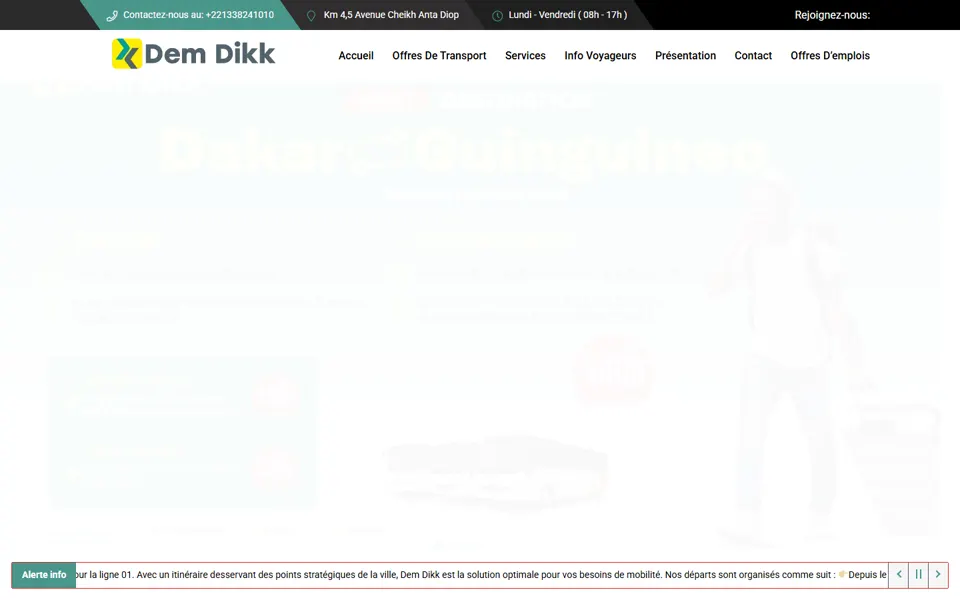
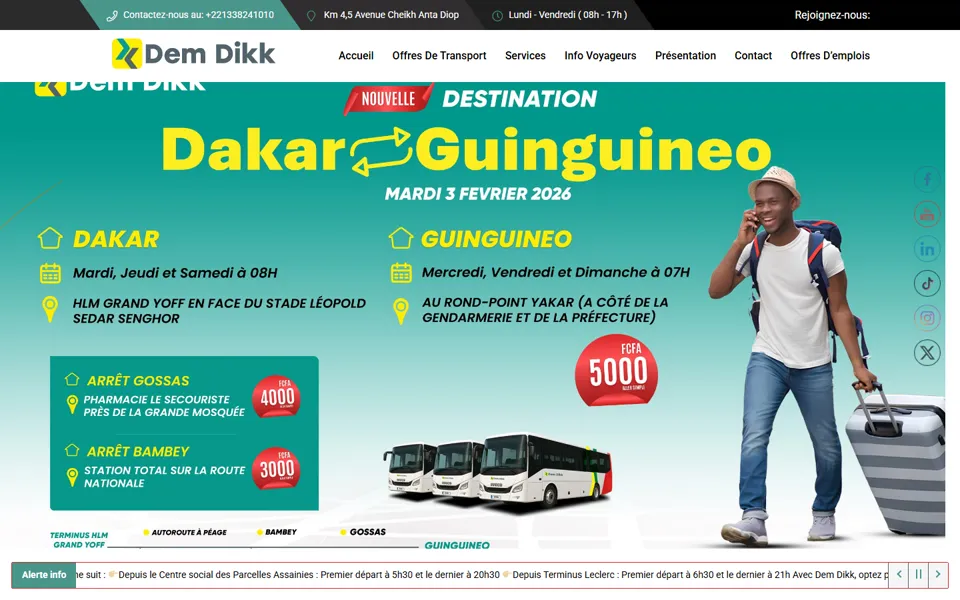
Dem Dikk : capture « avant » lisible et versions des fichiers CSS/JS
La capture du site actuel était prise pendant le fondu du diaporama (image
presque blanche) ; nouvelle capture nette. Ajout de ?v= aux liens CSS/JS
pour que les navigateurs chargent les nouveaux styles au lieu du cache.

diff --git a/index.html b/index.html
@@ -12,7 +12,7 @@
   <link rel="preconnect" href="https://fonts.googleapis.com">
   <link rel="preconnect" href="https://fonts.gstatic.com" crossorigin>
   <link href="https://fonts.googleapis.com/css2?family=Inter:wght@400;500;600&family=Sora:wght@500;600;700;800&display=swap" rel="stylesheet">
-  <link rel="stylesheet" href="assets/css/style.css">
+  <link rel="stylesheet" href="assets/css/style.css?v=20261127">
 </head>
 <body>
 <a class="skip" href="#contenu">Aller au contenu</a>
@@ -290,8 +290,8 @@
   <svg viewBox="0 0 24 24"><path d="M17.47 14.38c-.3-.15-1.76-.87-2.03-.97-.27-.1-.47-.15-.67.15-.2.3-.77.97-.94 1.17-.17.2-.35.22-.65.07-.3-.15-1.26-.46-2.4-1.48-.89-.79-1.49-1.77-1.66-2.07-.17-.3-.02-.46.13-.61.13-.13.3-.35.45-.52.15-.17.2-.3.3-.5.1-.2.05-.37-.02-.52-.08-.15-.67-1.61-.92-2.2-.24-.58-.49-.5-.67-.51h-.57c-.2 0-.52.07-.79.37-.27.3-1.04 1.02-1.04 2.48 0 1.46 1.06 2.88 1.21 3.08.15.2 2.1 3.2 5.08 4.48.71.31 1.26.49 1.69.63.71.23 1.36.2 1.87.12.57-.08 1.76-.72 2.01-1.42.25-.7.25-1.29.17-1.42-.07-.12-.27-.2-.57-.35zM12.04 21.5h-.01a9.43 9.43 0 0 1-4.8-1.32l-.35-.2-3.57.94.95-3.48-.22-.36a9.4 9.4 0 0 1-1.44-5.02c0-5.2 4.24-9.44 9.45-9.44a9.4 9.4 0 0 1 6.68 2.77 9.38 9.38 0 0 1 2.76 6.68c0 5.21-4.24 9.43-9.45 9.43zm8.04-17.47A11.29 11.29 0 0 0 12.04.7C5.77.7.66 5.8.66 12.07c0 2 .52 3.96 1.52 5.68L.57 23.65l6.04-1.58a11.33 11.33 0 0 0 5.43 1.38h.01c6.27 0 11.38-5.1 11.38-11.37 0-3.04-1.18-5.9-3.35-8.05z"/></svg>
 </a>
 
-<script src="assets/js/main.js" defer></script>
-<script src="assets/js/animations.js" defer></script>
-<script src="assets/js/scrolly.js" defer></script>
+<script src="assets/js/main.js?v=20261127" defer></script>
+<script src="assets/js/animations.js?v=20261127" defer></script>
+<script src="assets/js/scrolly.js?v=20261127" defer></script>
 </body>
 </html>

diff --git a/a-propos.html b/a-propos.html
@@ -12,7 +12,7 @@
   <link rel="preconnect" href="https://fonts.googleapis.com">
   <link rel="preconnect" href="https://fonts.gstatic.com" crossorigin>
   <link href="https://fonts.googleapis.com/css2?family=Inter:wght@400;500;600&family=Sora:wght@500;600;700;800&display=swap" rel="stylesheet">
-  <link rel="stylesheet" href="assets/css/style.css">
+  <link rel="stylesheet" href="assets/css/style.css?v=20261127">
 </head>
 <body>
 <a class="skip" href="#contenu">Aller au contenu</a>
@@ -131,7 +131,7 @@
   <svg viewBox="0 0 24 24"><path d="M17.47 14.38c-.3-.15-1.76-.87-2.03-.97-.27-.1-.47-.15-.67.15-.2.3-.77.97-.94 1.17-.17.2-.35.22-.65.07-.3-.15-1.26-.46-2.4-1.48-.89-.79-1.49-1.77-1.66-2.07-.17-.3-.02-.46.13-.61.13-.13.3-.35.45-.52.15-.17.2-.3.3-.5.1-.2.05-.37-.02-.52-.08-.15-.67-1.61-.92-2.2-.24-.58-.49-.5-.67-.51h-.57c-.2 0-.52.07-.79.37-.27.3-1.04 1.02-1.04 2.48 0 1.46 1.06 2.88 1.21 3.08.15.2 2.1 3.2 5.08 4.48.71.31 1.26.49 1.69.63.71.23 1.36.2 1.87.12.57-.08 1.76-.72 2.01-1.42.25-.7.25-1.29.17-1.42-.07-.12-.27-.2-.57-.35zM12.04 21.5h-.01a9.43 9.43 0 0 1-4.8-1.32l-.35-.2-3.57.94.95-3.48-.22-.36a9.4 9.4 0 0 1-1.44-5.02c0-5.2 4.24-9.44 9.45-9.44a9.4 9.4 0 0 1 6.68 2.77 9.38 9.38 0 0 1 2.76 6.68c0 5.21-4.24 9.43-9.45 9.43zm8.04-17.47A11.29 11.29 0 0 0 12.04.7C5.77.7.66 5.8.66 12.07c0 2 .52 3.96 1.52 5.68L.57 23.65l6.04-1.58a11.33 11.33 0 0 0 5.43 1.38h.01c6.27 0 11.38-5.1 11.38-11.37 0-3.04-1.18-5.9-3.35-8.05z"/></svg>
 </a>
 
-<script src="assets/js/main.js" defer></script>
-<script src="assets/js/animations.js" defer></script>
+<script src="assets/js/main.js?v=20261127" defer></script>
+<script src="assets/js/animations.js?v=20261127" defer></script>
 </body>
 </html>

diff --git a/automatisation.html b/automatisation.html
@@ -12,7 +12,7 @@
   <link rel="preconnect" href="https://fonts.googleapis.com">
   <link rel="preconnect" href="https://fonts.gstatic.com" crossorigin>
   <link href="https://fonts.googleapis.com/css2?family=Inter:wght@400;500;600&family=Sora:wght@500;600;700;800&display=swap" rel="stylesheet">
-  <link rel="stylesheet" href="assets/css/style.css">
+  <link rel="stylesheet" href="assets/css/style.css?v=20261127">
 </head>
 <body>
 <a class="skip" href="#contenu">Aller au contenu</a>
@@ -149,7 +149,7 @@
   <svg viewBox="0 0 24 24"><path d="M17.47 14.38c-.3-.15-1.76-.87-2.03-.97-.27-.1-.47-.15-.67.15-.2.3-.77.97-.94 1.17-.17.2-.35.22-.65.07-.3-.15-1.26-.46-2.4-1.48-.89-.79-1.49-1.77-1.66-2.07-.17-.3-.02-.46.13-.61.13-.13.3-.35.45-.52.15-.17.2-.3.3-.5.1-.2.05-.37-.02-.52-.08-.15-.67-1.61-.92-2.2-.24-.58-.49-.5-.67-.51h-.57c-.2 0-.52.07-.79.37-.27.3-1.04 1.02-1.04 2.48 0 1.46 1.06 2.88 1.21 3.08.15.2 2.1 3.2 5.08 4.48.71.31 1.26.49 1.69.63.71.23 1.36.2 1.87.12.57-.08 1.76-.72 2.01-1.42.25-.7.25-1.29.17-1.42-.07-.12-.27-.2-.57-.35zM12.04 21.5h-.01a9.43 9.43 0 0 1-4.8-1.32l-.35-.2-3.57.94.95-3.48-.22-.36a9.4 9.4 0 0 1-1.44-5.02c0-5.2 4.24-9.44 9.45-9.44a9.4 9.4 0 0 1 6.68 2.77 9.38 9.38 0 0 1 2.76 6.68c0 5.21-4.24 9.43-9.45 9.43zm8.04-17.47A11.29 11.29 0 0 0 12.04.7C5.77.7.66 5.8.66 12.07c0 2 .52 3.96 1.52 5.68L.57 23.65l6.04-1.58a11.33 11.33 0 0 0 5.43 1.38h.01c6.27 0 11.38-5.1 11.38-11.37 0-3.04-1.18-5.9-3.35-8.05z"/></svg>
 </a>
 
-<script src="assets/js/main.js" defer></script>
-<script src="assets/js/animations.js" defer></script>
+<script src="assets/js/main.js?v=20261127" defer></script>
+<script src="assets/js/animations.js?v=20261127" defer></script>
 </body>
 </html>

diff --git a/contact.html b/contact.html
@@ -12,7 +12,7 @@
   <link rel="preconnect" href="https://fonts.googleapis.com">
   <link rel="preconnect" href="https://fonts.gstatic.com" crossorigin>
   <link href="https://fonts.googleapis.com/css2?family=Inter:wght@400;500;600&family=Sora:wght@500;600;700;800&display=swap" rel="stylesheet">
-  <link rel="stylesheet" href="assets/css/style.css">
+  <link rel="stylesheet" href="assets/css/style.css?v=20261127">
 </head>
 <body>
 <a class="skip" href="#contenu">Aller au contenu</a>
@@ -131,7 +131,7 @@
   <svg viewBox="0 0 24 24"><path d="M17.47 14.38c-.3-.15-1.76-.87-2.03-.97-.27-.1-.47-.15-.67.15-.2.3-.77.97-.94 1.17-.17.2-.35.22-.65.07-.3-.15-1.26-.46-2.4-1.48-.89-.79-1.49-1.77-1.66-2.07-.17-.3-.02-.46.13-.61.13-.13.3-.35.45-.52.15-.17.2-.3.3-.5.1-.2.05-.37-.02-.52-.08-.15-.67-1.61-.92-2.2-.24-.58-.49-.5-.67-.51h-.57c-.2 0-.52.07-.79.37-.27.3-1.04 1.02-1.04 2.48 0 1.46 1.06 2.88 1.21 3.08.15.2 2.1 3.2 5.08 4.48.71.31 1.26.49 1.69.63.71.23 1.36.2 1.87.12.57-.08 1.76-.72 2.01-1.42.25-.7.25-1.29.17-1.42-.07-.12-.27-.2-.57-.35zM12.04 21.5h-.01a9.43 9.43 0 0 1-4.8-1.32l-.35-.2-3.57.94.95-3.48-.22-.36a9.4 9.4 0 0 1-1.44-5.02c0-5.2 4.24-9.44 9.45-9.44a9.4 9.4 0 0 1 6.68 2.77 9.38 9.38 0 0 1 2.76 6.68c0 5.21-4.24 9.43-9.45 9.43zm8.04-17.47A11.29 11.29 0 0 0 12.04.7C5.77.7.66 5.8.66 12.07c0 2 .52 3.96 1.52 5.68L.57 23.65l6.04-1.58a11.33 11.33 0 0 0 5.43 1.38h.01c6.27 0 11.38-5.1 11.38-11.37 0-3.04-1.18-5.9-3.35-8.05z"/></svg>
 </a>
 
-<script src="assets/js/main.js" defer></script>
-<script src="assets/js/animations.js" defer></script>
+<script src="assets/js/main.js?v=20261127" defer></script>
+<script src="assets/js/animations.js?v=20261127" defer></script>
 </body>
 </html>

diff --git a/creation-visuelle.html b/creation-visuelle.html
@@ -12,7 +12,7 @@
   <link rel="preconnect" href="https://fonts.googleapis.com">
   <link rel="preconnect" href="https://fonts.gstatic.com" crossorigin>
   <link href="https://fonts.googleapis.com/css2?family=Inter:wght@400;500;600&family=Sora:wght@500;600;700;800&display=swap" rel="stylesheet">
-  <link rel="stylesheet" href="assets/css/style.css">
+  <link rel="stylesheet" href="assets/css/style.css?v=20261127">
 </head>
 <body>
 <a class="skip" href="#contenu">Aller au contenu</a>
@@ -147,7 +147,7 @@
   <svg viewBox="0 0 24 24"><path d="M17.47 14.38c-.3-.15-1.76-.87-2.03-.97-.27-.1-.47-.15-.67.15-.2.3-.77.97-.94 1.17-.17.2-.35.22-.65.07-.3-.15-1.26-.46-2.4-1.48-.89-.79-1.49-1.77-1.66-2.07-.17-.3-.02-.46.13-.61.13-.13.3-.35.45-.52.15-.17.2-.3.3-.5.1-.2.05-.37-.02-.52-.08-.15-.67-1.61-.92-2.2-.24-.58-.49-.5-.67-.51h-.57c-.2 0-.52.07-.79.37-.27.3-1.04 1.02-1.04 2.48 0 1.46 1.06 2.88 1.21 3.08.15.2 2.1 3.2 5.08 4.48.71.31 1.26.49 1.69.63.71.23 1.36.2 1.87.12.57-.08 1.76-.72 2.01-1.42.25-.7.25-1.29.17-1.42-.07-.12-.27-.2-.57-.35zM12.04 21.5h-.01a9.43 9.43 0 0 1-4.8-1.32l-.35-.2-3.57.94.95-3.48-.22-.36a9.4 9.4 0 0 1-1.44-5.02c0-5.2 4.24-9.44 9.45-9.44a9.4 9.4 0 0 1 6.68 2.77 9.38 9.38 0 0 1 2.76 6.68c0 5.21-4.24 9.43-9.45 9.43zm8.04-17.47A11.29 11.29 0 0 0 12.04.7C5.77.7.66 5.8.66 12.07c0 2 .52 3.96 1.52 5.68L.57 23.65l6.04-1.58a11.33 11.33 0 0 0 5.43 1.38h.01c6.27 0 11.38-5.1 11.38-11.37 0-3.04-1.18-5.9-3.35-8.05z"/></svg>
 </a>
 
-<script src="assets/js/main.js" defer></script>
-<script src="assets/js/animations.js" defer></script>
+<script src="assets/js/main.js?v=20261127" defer></script>
+<script src="assets/js/animations.js?v=20261127" defer></script>
 </body>
 </html>

diff --git a/logiciels.html b/logiciels.html
@@ -12,7 +12,7 @@
   <link rel="preconnect" href="https://fonts.googleapis.com">
   <link rel="preconnect" href="https://fonts.gstatic.com" crossorigin>
   <link href="https://fonts.googleapis.com/css2?family=Inter:wght@400;500;600&family=Sora:wght@500;600;700;800&display=swap" rel="stylesheet">
-  <link rel="stylesheet" href="assets/css/style.css">
+  <link rel="stylesheet" href="assets/css/style.css?v=20261127">
 </head>
 <body>
 <a class="skip" href="#contenu">Aller au contenu</a>
@@ -151,7 +151,7 @@
   <svg viewBox="0 0 24 24"><path d="M17.47 14.38c-.3-.15-1.76-.87-2.03-.97-.27-.1-.47-.15-.67.15-.2.3-.77.97-.94 1.17-.17.2-.35.22-.65.07-.3-.15-1.26-.46-2.4-1.48-.89-.79-1.49-1.77-1.66-2.07-.17-.3-.02-.46.13-.61.13-.13.3-.35.45-.52.15-.17.2-.3.3-.5.1-.2.05-.37-.02-.52-.08-.15-.67-1.61-.92-2.2-.24-.58-.49-.5-.67-.51h-.57c-.2 0-.52.07-.79.37-.27.3-1.04 1.02-1.04 2.48 0 1.46 1.06 2.88 1.21 3.08.15.2 2.1 3.2 5.08 4.48.71.31 1.26.49 1.69.63.71.23 1.36.2 1.87.12.57-.08 1.76-.72 2.01-1.42.25-.7.25-1.29.17-1.42-.07-.12-.27-.2-.57-.35zM12.04 21.5h-.01a9.43 9.43 0 0 1-4.8-1.32l-.35-.2-3.57.94.95-3.48-.22-.36a9.4 9.4 0 0 1-1.44-5.02c0-5.2 4.24-9.44 9.45-9.44a9.4 9.4 0 0 1 6.68 2.77 9.38 9.38 0 0 1 2.76 6.68c0 5.21-4.24 9.43-9.45 9.43zm8.04-17.47A11.29 11.29 0 0 0 12.04.7C5.77.7.66 5.8.66 12.07c0 2 .52 3.96 1.52 5.68L.57 23.65l6.04-1.58a11.33 11.33 0 0 0 5.43 1.38h.01c6.27 0 11.38-5.1 11.38-11.37 0-3.04-1.18-5.9-3.35-8.05z"/></svg>
 </a>
 
-<script src="assets/js/main.js" defer></script>
-<script src="assets/js/animations.js" defer></script>
+<script src="assets/js/main.js?v=20261127" defer></script>
+<script src="assets/js/animations.js?v=20261127" defer></script>
 </body>
 </html>

diff --git a/realisations.html b/realisations.html
@@ -12,7 +12,7 @@
   <link rel="preconnect" href="https://fonts.googleapis.com">
   <link rel="preconnect" href="https://fonts.gstatic.com" crossorigin>
   <link href="https://fonts.googleapis.com/css2?family=Inter:wght@400;500;600&family=Sora:wght@500;600;700;800&display=swap" rel="stylesheet">
-  <link rel="stylesheet" href="assets/css/style.css">
+  <link rel="stylesheet" href="assets/css/style.css?v=20261127">
 </head>
 <body>
 <a class="skip" href="#contenu">Aller au contenu</a>
@@ -195,7 +195,7 @@
   <svg viewBox="0 0 24 24"><path d="M17.47 14.38c-.3-.15-1.76-.87-2.03-.97-.27-.1-.47-.15-.67.15-.2.3-.77.97-.94 1.17-.17.2-.35.22-.65.07-.3-.15-1.26-.46-2.4-1.48-.89-.79-1.49-1.77-1.66-2.07-.17-.3-.02-.46.13-.61.13-.13.3-.35.45-.52.15-.17.2-.3.3-.5.1-.2.05-.37-.02-.52-.08-.15-.67-1.61-.92-2.2-.24-.58-.49-.5-.67-.51h-.57c-.2 0-.52.07-.79.37-.27.3-1.04 1.02-1.04 2.48 0 1.46 1.06 2.88 1.21 3.08.15.2 2.1 3.2 5.08 4.48.71.31 1.26.49 1.69.63.71.23 1.36.2 1.87.12.57-.08 1.76-.72 2.01-1.42.25-.7.25-1.29.17-1.42-.07-.12-.27-.2-.57-.35zM12.04 21.5h-.01a9.43 9.43 0 0 1-4.8-1.32l-.35-.2-3.57.94.95-3.48-.22-.36a9.4 9.4 0 0 1-1.44-5.02c0-5.2 4.24-9.44 9.45-9.44a9.4 9.4 0 0 1 6.68 2.77 9.38 9.38 0 0 1 2.76 6.68c0 5.21-4.24 9.43-9.45 9.43zm8.04-17.47A11.29 11.29 0 0 0 12.04.7C5.77.7.66 5.8.66 12.07c0 2 .52 3.96 1.52 5.68L.57 23.65l6.04-1.58a11.33 11.33 0 0 0 5.43 1.38h.01c6.27 0 11.38-5.1 11.38-11.37 0-3.04-1.18-5.9-3.35-8.05z"/></svg>
 </a>
 
-<script src="assets/js/main.js" defer></script>
-<script src="assets/js/animations.js" defer></script>
+<script src="assets/js/main.js?v=20261127" defer></script>
+<script src="assets/js/animations.js?v=20261127" defer></script>
 </body>
 </html>

diff --git a/services.html b/services.html
@@ -12,7 +12,7 @@
   <link rel="preconnect" href="https://fonts.googleapis.com">
   <link rel="preconnect" href="https://fonts.gstatic.com" crossorigin>
   <link href="https://fonts.googleapis.com/css2?family=Inter:wght@400;500;600&family=Sora:wght@500;600;700;800&display=swap" rel="stylesheet">
-  <link rel="stylesheet" href="assets/css/style.css">
+  <link rel="stylesheet" href="assets/css/style.css?v=20261127">
 </head>
 <body>
 <a class="skip" href="#contenu">Aller au contenu</a>
@@ -148,7 +148,7 @@
   <svg viewBox="0 0 24 24"><path d="M17.47 14.38c-.3-.15-1.76-.87-2.03-.97-.27-.1-.47-.15-.67.15-.2.3-.77.97-.94 1.17-.17.2-.35.22-.65.07-.3-.15-1.26-.46-2.4-1.48-.89-.79-1.49-1.77-1.66-2.07-.17-.3-.02-.46.13-.61.13-.13.3-.35.45-.52.15-.17.2-.3.3-.5.1-.2.05-.37-.02-.52-.08-.15-.67-1.61-.92-2.2-.24-.58-.49-.5-.67-.51h-.57c-.2 0-.52.07-.79.37-.27.3-1.04 1.02-1.04 2.48 0 1.46 1.06 2.88 1.21 3.08.15.2 2.1 3.2 5.08 4.48.71.31 1.26.49 1.69.63.71.23 1.36.2 1.87.12.57-.08 1.76-.72 2.01-1.42.25-.7.25-1.29.17-1.42-.07-.12-.27-.2-.57-.35zM12.04 21.5h-.01a9.43 9.43 0 0 1-4.8-1.32l-.35-.2-3.57.94.95-3.48-.22-.36a9.4 9.4 0 0 1-1.44-5.02c0-5.2 4.24-9.44 9.45-9.44a9.4 9.4 0 0 1 6.68 2.77 9.38 9.38 0 0 1 2.76 6.68c0 5.21-4.24 9.43-9.45 9.43zm8.04-17.47A11.29 11.29 0 0 0 12.04.7C5.77.7.66 5.8.66 12.07c0 2 .52 3.96 1.52 5.68L.57 23.65l6.04-1.58a11.33 11.33 0 0 0 5.43 1.38h.01c6.27 0 11.38-5.1 11.38-11.37 0-3.04-1.18-5.9-3.35-8.05z"/></svg>
 </a>
 
-<script src="assets/js/main.js" defer></script>
-<script src="assets/js/animations.js" defer></script>
+<script src="assets/js/main.js?v=20261127" defer></script>
+<script src="assets/js/animations.js?v=20261127" defer></script>
 </body>
 </html>

diff --git a/sites-web.html b/sites-web.html
@@ -12,7 +12,7 @@
   <link rel="preconnect" href="https://fonts.googleapis.com">
   <link rel="preconnect" href="https://fonts.gstatic.com" crossorigin>
   <link href="https://fonts.googleapis.com/css2?family=Inter:wght@400;500;600&family=Sora:wght@500;600;700;800&display=swap" rel="stylesheet">
-  <link rel="stylesheet" href="assets/css/style.css">
+  <link rel="stylesheet" href="assets/css/style.css?v=20261127">
 </head>
 <body>
 <a class="skip" href="#contenu">Aller au contenu</a>
@@ -148,7 +148,7 @@
   <svg viewBox="0 0 24 24"><path d="M17.47 14.38c-.3-.15-1.76-.87-2.03-.97-.27-.1-.47-.15-.67.15-.2.3-.77.97-.94 1.17-.17.2-.35.22-.65.07-.3-.15-1.26-.46-2.4-1.48-.89-.79-1.49-1.77-1.66-2.07-.17-.3-.02-.46.13-.61.13-.13.3-.35.45-.52.15-.17.2-.3.3-.5.1-.2.05-.37-.02-.52-.08-.15-.67-1.61-.92-2.2-.24-.58-.49-.5-.67-.51h-.57c-.2 0-.52.07-.79.37-.27.3-1.04 1.02-1.04 2.48 0 1.46 1.06 2.88 1.21 3.08.15.2 2.1 3.2 5.08 4.48.71.31 1.26.49 1.69.63.71.23 1.36.2 1.87.12.57-.08 1.76-.72 2.01-1.42.25-.7.25-1.29.17-1.42-.07-.12-.27-.2-.57-.35zM12.04 21.5h-.01a9.43 9.43 0 0 1-4.8-1.32l-.35-.2-3.57.94.95-3.48-.22-.36a9.4 9.4 0 0 1-1.44-5.02c0-5.2 4.24-9.44 9.45-9.44a9.4 9.4 0 0 1 6.68 2.77 9.38 9.38 0 0 1 2.76 6.68c0 5.21-4.24 9.43-9.45 9.43zm8.04-17.47A11.29 11.29 0 0 0 12.04.7C5.77.7.66 5.8.66 12.07c0 2 .52 3.96 1.52 5.68L.57 23.65l6.04-1.58a11.33 11.33 0 0 0 5.43 1.38h.01c6.27 0 11.38-5.1 11.38-11.37 0-3.04-1.18-5.9-3.35-8.05z"/></svg>
 </a>
 
-<script src="assets/js/main.js" defer></script>
-<script src="assets/js/animations.js" defer></script>
+<script src="assets/js/main.js?v=20261127" defer></script>
+<script src="assets/js/animations.js?v=20261127" defer></script>
 </body>
 </html>

diff --git a/tarifs.html b/tarifs.html
@@ -12,7 +12,7 @@
   <link rel="preconnect" href="https://fonts.googleapis.com">
   <link rel="preconnect" href="https://fonts.gstatic.com" crossorigin>
   <link href="https://fonts.googleapis.com/css2?family=Inter:wght@400;500;600&family=Sora:wght@500;600;700;800&display=swap" rel="stylesheet">
-  <link rel="stylesheet" href="assets/css/style.css">
+  <link rel="stylesheet" href="assets/css/style.css?v=20261127">
 </head>
 <body>
 <a class="skip" href="#contenu">Aller au contenu</a>
@@ -152,7 +152,7 @@
   <svg viewBox="0 0 24 24"><path d="M17.47 14.38c-.3-.15-1.76-.87-2.03-.97-.27-.1-.47-.15-.67.15-.2.3-.77.97-.94 1.17-.17.2-.35.22-.65.07-.3-.15-1.26-.46-2.4-1.48-.89-.79-1.49-1.77-1.66-2.07-.17-.3-.02-.46.13-.61.13-.13.3-.35.45-.52.15-.17.2-.3.3-.5.1-.2.05-.37-.02-.52-.08-.15-.67-1.61-.92-2.2-.24-.58-.49-.5-.67-.51h-.57c-.2 0-.52.07-.79.37-.27.3-1.04 1.02-1.04 2.48 0 1.46 1.06 2.88 1.21 3.08.15.2 2.1 3.2 5.08 4.48.71.31 1.26.49 1.69.63.71.23 1.36.2 1.87.12.57-.08 1.76-.72 2.01-1.42.25-.7.25-1.29.17-1.42-.07-.12-.27-.2-.57-.35zM12.04 21.5h-.01a9.43 9.43 0 0 1-4.8-1.32l-.35-.2-3.57.94.95-3.48-.22-.36a9.4 9.4 0 0 1-1.44-5.02c0-5.2 4.24-9.44 9.45-9.44a9.4 9.4 0 0 1 6.68 2.77 9.38 9.38 0 0 1 2.76 6.68c0 5.21-4.24 9.43-9.45 9.43zm8.04-17.47A11.29 11.29 0 0 0 12.04.7C5.77.7.66 5.8.66 12.07c0 2 .52 3.96 1.52 5.68L.57 23.65l6.04-1.58a11.33 11.33 0 0 0 5.43 1.38h.01c6.27 0 11.38-5.1 11.38-11.37 0-3.04-1.18-5.9-3.35-8.05z"/></svg>
 </a>
 
-<script src="assets/js/main.js" defer></script>
-<script src="assets/js/animations.js" defer></script>
+<script src="assets/js/main.js?v=20261127" defer></script>
+<script src="assets/js/animations.js?v=20261127" defer></script>
 </body>
 </html>
